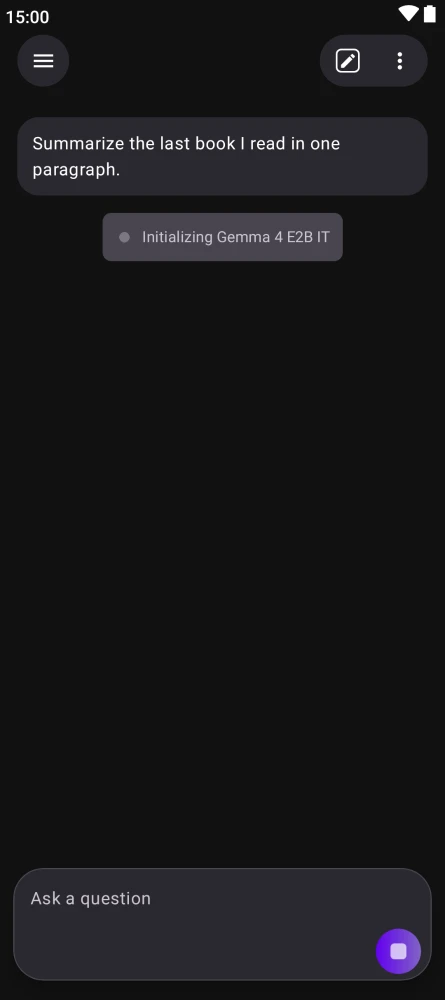
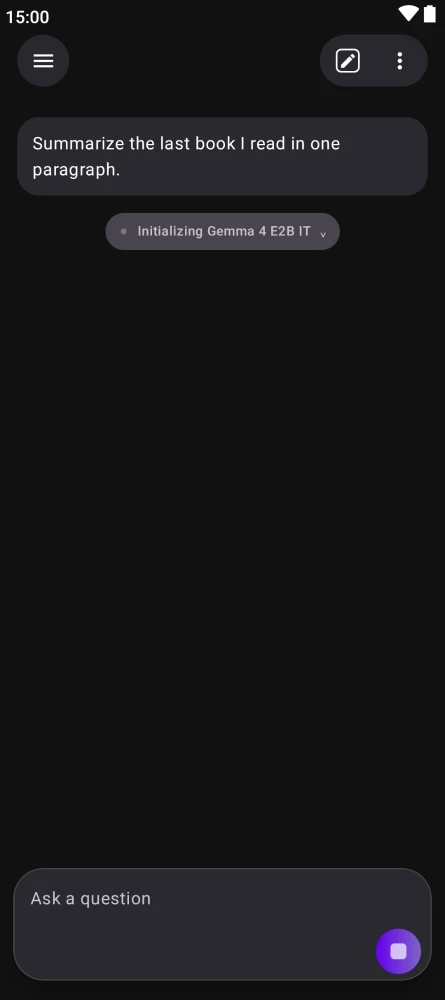
Auto-fix: spotlessApply and updateScreenshots [skip ci]

Changed region(s): [[0.2045, 0.217, 0.7888, 0.279]]

diff --git a/composeApp/src/commonMain/kotlin/com/inspiredandroid/kai/ui/chat/composables/ChatHistorySheet.kt b/composeApp/src/commonMain/kotlin/com/inspiredandroid/kai/ui/chat/composables/ChatHistorySheet.kt
@@ -23,8 +23,8 @@ import androidx.compose.foundation.lazy.rememberLazyListState
 import androidx.compose.foundation.shape.RoundedCornerShape
 import androidx.compose.material.icons.Icons
 import androidx.compose.material.icons.filled.MoreVert
-import androidx.compose.material.icons.filled.Settings
 import androidx.compose.material.icons.filled.PushPin
+import androidx.compose.material.icons.filled.Settings
 import androidx.compose.material3.AlertDialog
 import androidx.compose.material3.DropdownMenu
 import androidx.compose.material3.DropdownMenuItem
@@ -112,8 +112,12 @@ internal fun ChatHistorySheet(
         var searchText by remember { mutableStateOf("") }
         val matchingConversations = remember(conversations, searchText) {
             val query = searchText.trim()
-            if (query.isEmpty()) conversations else conversations.filter {
-                it.title.contains(query, ignoreCase = true) || it.searchContent.any { message -> message.contains(query, ignoreCase = true) }
+            if (query.isEmpty()) {
+                conversations
+            } else {
+                conversations.filter {
+                    it.title.contains(query, ignoreCase = true) || it.searchContent.any { message -> message.contains(query, ignoreCase = true) }
+                }
             }
         }
         val deletedMessage = stringResource(Res.string.snackbar_conversation_deleted)
@@ -243,20 +247,24 @@ internal fun ChatHistorySheet(
                                         if (conversation.title.isNotEmpty()) {
                                             Row(verticalAlignment = Alignment.CenterVertically) {
                                                 if (conversation.isPinned) {
-                                                    Icon(Icons.Default.PushPin, contentDescription = "Pinned", modifier = Modifier.size(12.dp),
-                                                        tint = MaterialTheme.colorScheme.onSurfaceVariant)
+                                                    Icon(
+                                                        Icons.Default.PushPin,
+                                                        contentDescription = "Pinned",
+                                                        modifier = Modifier.size(12.dp),
+                                                        tint = MaterialTheme.colorScheme.onSurfaceVariant,
+                                                    )
                                                 }
                                                 Text(
-                                                text = conversation.title,
-                                                style = MaterialTheme.typography.bodyLarge,
-                                                color = if (isActive) {
-                                                    MaterialTheme.colorScheme.primary
-                                                } else {
-                                                    MaterialTheme.colorScheme.onBackground
-                                                },
-                                                maxLines = 1,
-                                                overflow = TextOverflow.Ellipsis,
-                                            )
+                                                    text = conversation.title,
+                                                    style = MaterialTheme.typography.bodyLarge,
+                                                    color = if (isActive) {
+                                                        MaterialTheme.colorScheme.primary
+                                                    } else {
+                                                        MaterialTheme.colorScheme.onBackground
+                                                    },
+                                                    maxLines = 1,
+                                                    overflow = TextOverflow.Ellipsis,
+                                                )
                                             }
                                         }
                                         Text(

diff --git a/composeApp/src/commonMain/kotlin/com/inspiredandroid/kai/ui/chat/composables/ToolMessage.kt b/composeApp/src/commonMain/kotlin/com/inspiredandroid/kai/ui/chat/composables/ToolMessage.kt
@@ -15,8 +15,8 @@ import androidx.compose.animation.fadeOut
 import androidx.compose.animation.togetherWith
 import androidx.compose.foundation.background
 import androidx.compose.foundation.clickable
-import androidx.compose.foundation.layout.Column
 import androidx.compose.foundation.layout.Box
+import androidx.compose.foundation.layout.Column
 import androidx.compose.foundation.layout.Row
 import androidx.compose.foundation.layout.Spacer
 import androidx.compose.foundation.layout.padding
@@ -100,15 +100,21 @@ internal fun WaitingResponseRow(
                 )
                 if (executingTools.isNotEmpty()) {
                     Spacer(Modifier.width(8.dp))
-                    Text(if (expanded) "⌃" else "⌄", style = MaterialTheme.typography.labelMedium,
-                        color = MaterialTheme.colorScheme.onSurfaceVariant)
+                    Text(
+                        if (expanded) "⌃" else "⌄",
+                        style = MaterialTheme.typography.labelMedium,
+                        color = MaterialTheme.colorScheme.onSurfaceVariant,
+                    )
                 }
             }
             AnimatedVisibility(visible = expanded && executingTools.isNotEmpty()) {
                 Column(Modifier.padding(top = 8.dp)) {
                     executingTools.forEach { (_, name) ->
-                        Text("• $name", style = MaterialTheme.typography.bodySmall,
-                            color = MaterialTheme.colorScheme.onSurfaceVariant)
+                        Text(
+                            "• $name",
+                            style = MaterialTheme.typography.bodySmall,
+                            color = MaterialTheme.colorScheme.onSurfaceVariant,
+                        )
                     }
                 }
             }

diff --git a/composeApp/src/commonMain/kotlin/com/inspiredandroid/kai/ui/Theme.kt b/composeApp/src/commonMain/kotlin/com/inspiredandroid/kai/ui/Theme.kt
@@ -2,8 +2,6 @@
 
 package com.inspiredandroid.kai.ui
 
-import com.inspiredandroid.kai.data.AccentPreset
-
 import androidx.compose.foundation.BorderStroke
 import androidx.compose.foundation.background
 import androidx.compose.foundation.layout.fillMaxWidth
@@ -36,6 +34,7 @@ import androidx.compose.ui.input.pointer.PointerIcon
 import androidx.compose.ui.input.pointer.pointerHoverIcon
 import androidx.compose.ui.text.input.VisualTransformation
 import androidx.compose.ui.unit.dp
+import com.inspiredandroid.kai.data.AccentPreset
 import org.jetbrains.compose.ui.tooling.preview.Preview
 
 val darkPurple = Color(0xFF6200EE)
@@ -67,8 +66,12 @@ fun ColorScheme.withAccent(preset: AccentPreset): ColorScheme {
         AccentPreset.Teal -> Color(0xFF69D5C4)
         AccentPreset.CatppuccinMocha -> Color(0xFFCBA6F7)
     }
-    return copy(primary = accent, secondary = accent, tertiary = accent,
-        onPrimary = Color(0xFF171717))
+    return copy(
+        primary = accent,
+        secondary = accent,
+        tertiary = accent,
+        onPrimary = Color(0xFF171717),
+    )
 }
 
 fun ColorScheme.withBlackBackground(): ColorScheme = copy(

diff --git a/composeApp/src/commonMain/kotlin/com/inspiredandroid/kai/App.kt b/composeApp/src/commonMain/kotlin/com/inspiredandroid/kai/App.kt
@@ -150,12 +150,14 @@ private fun AppContent(
     val themeMode by appSettings.themeModeFlow.collectAsStateWithLifecycle()
     val systemInDark = isSystemInDarkTheme()
     val accentPreset by appSettings.accentPresetFlow.collectAsStateWithLifecycle()
-    val effectiveColorScheme = (when (themeMode) {
-        ThemeMode.System -> if (systemInDark) darkColorScheme else lightColorScheme
-        ThemeMode.Light -> lightColorScheme
-        ThemeMode.Dark -> darkColorScheme
-        ThemeMode.OledBlack -> darkColorScheme.withBlackBackground()
-    }).withAccent(accentPreset)
+    val effectiveColorScheme = (
+        when (themeMode) {
+            ThemeMode.System -> if (systemInDark) darkColorScheme else lightColorScheme
+            ThemeMode.Light -> lightColorScheme
+            ThemeMode.Dark -> darkColorScheme
+            ThemeMode.OledBlack -> darkColorScheme.withBlackBackground()
+        }
+        ).withAccent(accentPreset)
 
     val sandboxController = koinInject<SandboxController>()
     val sandboxAwareUriHandler = rememberSandboxAwareUriHandler(sandboxController)

diff --git a/composeApp/src/commonMain/kotlin/com/inspiredandroid/kai/ui/settings/GeneralSettings.kt b/composeApp/src/commonMain/kotlin/com/inspiredandroid/kai/ui/settings/GeneralSettings.kt
@@ -87,9 +87,11 @@ internal fun GeneralContent(uiState: SettingsUiState, actions: SettingsActions) 
             Box(Modifier.fillMaxWidth().padding(16.dp)) {
                 Column {
                     Text("Accent", style = MaterialTheme.typography.titleMedium)
-                    Text("Lightweight colour presets. No wallpapers or extra assets.",
+                    Text(
+                        "Lightweight colour presets. No wallpapers or extra assets.",
                         style = MaterialTheme.typography.bodyMedium,
-                        color = MaterialTheme.colorScheme.onSurfaceVariant)
+                        color = MaterialTheme.colorScheme.onSurfaceVariant,
+                    )
                     var expanded by remember { mutableStateOf(false) }
                     Box {
                         KaiOutlinedTextField(

diff --git a/composeApp/src/commonTest/kotlin/com/inspiredandroid/kai/testutil/FakeDataRepository.kt b/composeApp/src/commonTest/kotlin/com/inspiredandroid/kai/testutil/FakeDataRepository.kt
@@ -1,5 +1,6 @@
 package com.inspiredandroid.kai.testutil
 
+import com.inspiredandroid.kai.data.AccentPreset
 import com.inspiredandroid.kai.data.Conversation
 import com.inspiredandroid.kai.data.DataRepository
 import com.inspiredandroid.kai.data.EmailAccount
@@ -18,7 +19,6 @@ import com.inspiredandroid.kai.data.ServiceInstance
 import com.inspiredandroid.kai.data.SmsDraft
 import com.inspiredandroid.kai.data.SmsSyncState
 import com.inspiredandroid.kai.data.SystemPromptVariant
-import com.inspiredandroid.kai.data.AccentPreset
 import com.inspiredandroid.kai.data.ThemeMode
 import com.inspiredandroid.kai.data.ensureSelectedModelPresent
 import com.inspiredandroid.kai.inference.DownloadError

diff --git a/composeApp/src/commonMain/kotlin/com/inspiredandroid/kai/ui/chat/ChatScreen.kt b/composeApp/src/commonMain/kotlin/com/inspiredandroid/kai/ui/chat/ChatScreen.kt
@@ -61,9 +61,9 @@ import androidx.compose.runtime.mutableStateOf
 import androidx.compose.runtime.remember
 import androidx.compose.runtime.rememberCoroutineScope
 import androidx.compose.runtime.rememberUpdatedState
-import androidx.compose.runtime.snapshotFlow
 import androidx.compose.runtime.saveable.rememberSaveable
 import androidx.compose.runtime.setValue
+import androidx.compose.runtime.snapshotFlow
 import androidx.compose.ui.Alignment
 import androidx.compose.ui.Alignment.Companion.BottomCenter
 import androidx.compose.ui.Alignment.Companion.CenterEnd

diff --git a/composeApp/src/commonMain/kotlin/com/inspiredandroid/kai/ui/chat/composables/ServiceSelector.kt b/composeApp/src/commonMain/kotlin/com/inspiredandroid/kai/ui/chat/composables/ServiceSelector.kt
@@ -1,9 +1,9 @@
 package com.inspiredandroid.kai.ui.chat.composables
 
+import androidx.compose.foundation.ExperimentalFoundationApi
 import androidx.compose.foundation.background
 import androidx.compose.foundation.clickable
 import androidx.compose.foundation.combinedClickable
-import androidx.compose.foundation.ExperimentalFoundationApi
 import androidx.compose.foundation.layout.Box
 import androidx.compose.foundation.layout.BoxWithConstraints
 import androidx.compose.foundation.layout.Column

diff --git a/composeApp/src/commonMain/kotlin/com/inspiredandroid/kai/ui/settings/SettingsActions.kt b/composeApp/src/commonMain/kotlin/com/inspiredandroid/kai/ui/settings/SettingsActions.kt
@@ -1,9 +1,9 @@
 package com.inspiredandroid.kai.ui.settings
 
 import androidx.compose.runtime.Immutable
+import com.inspiredandroid.kai.data.AccentPreset
 import com.inspiredandroid.kai.data.ImportSection
 import com.inspiredandroid.kai.data.Service
-import com.inspiredandroid.kai.data.AccentPreset
 import com.inspiredandroid.kai.data.ThemeMode
 import com.inspiredandroid.kai.inference.LocalModel
 import com.inspiredandroid.kai.mcp.PopularMcpServer
